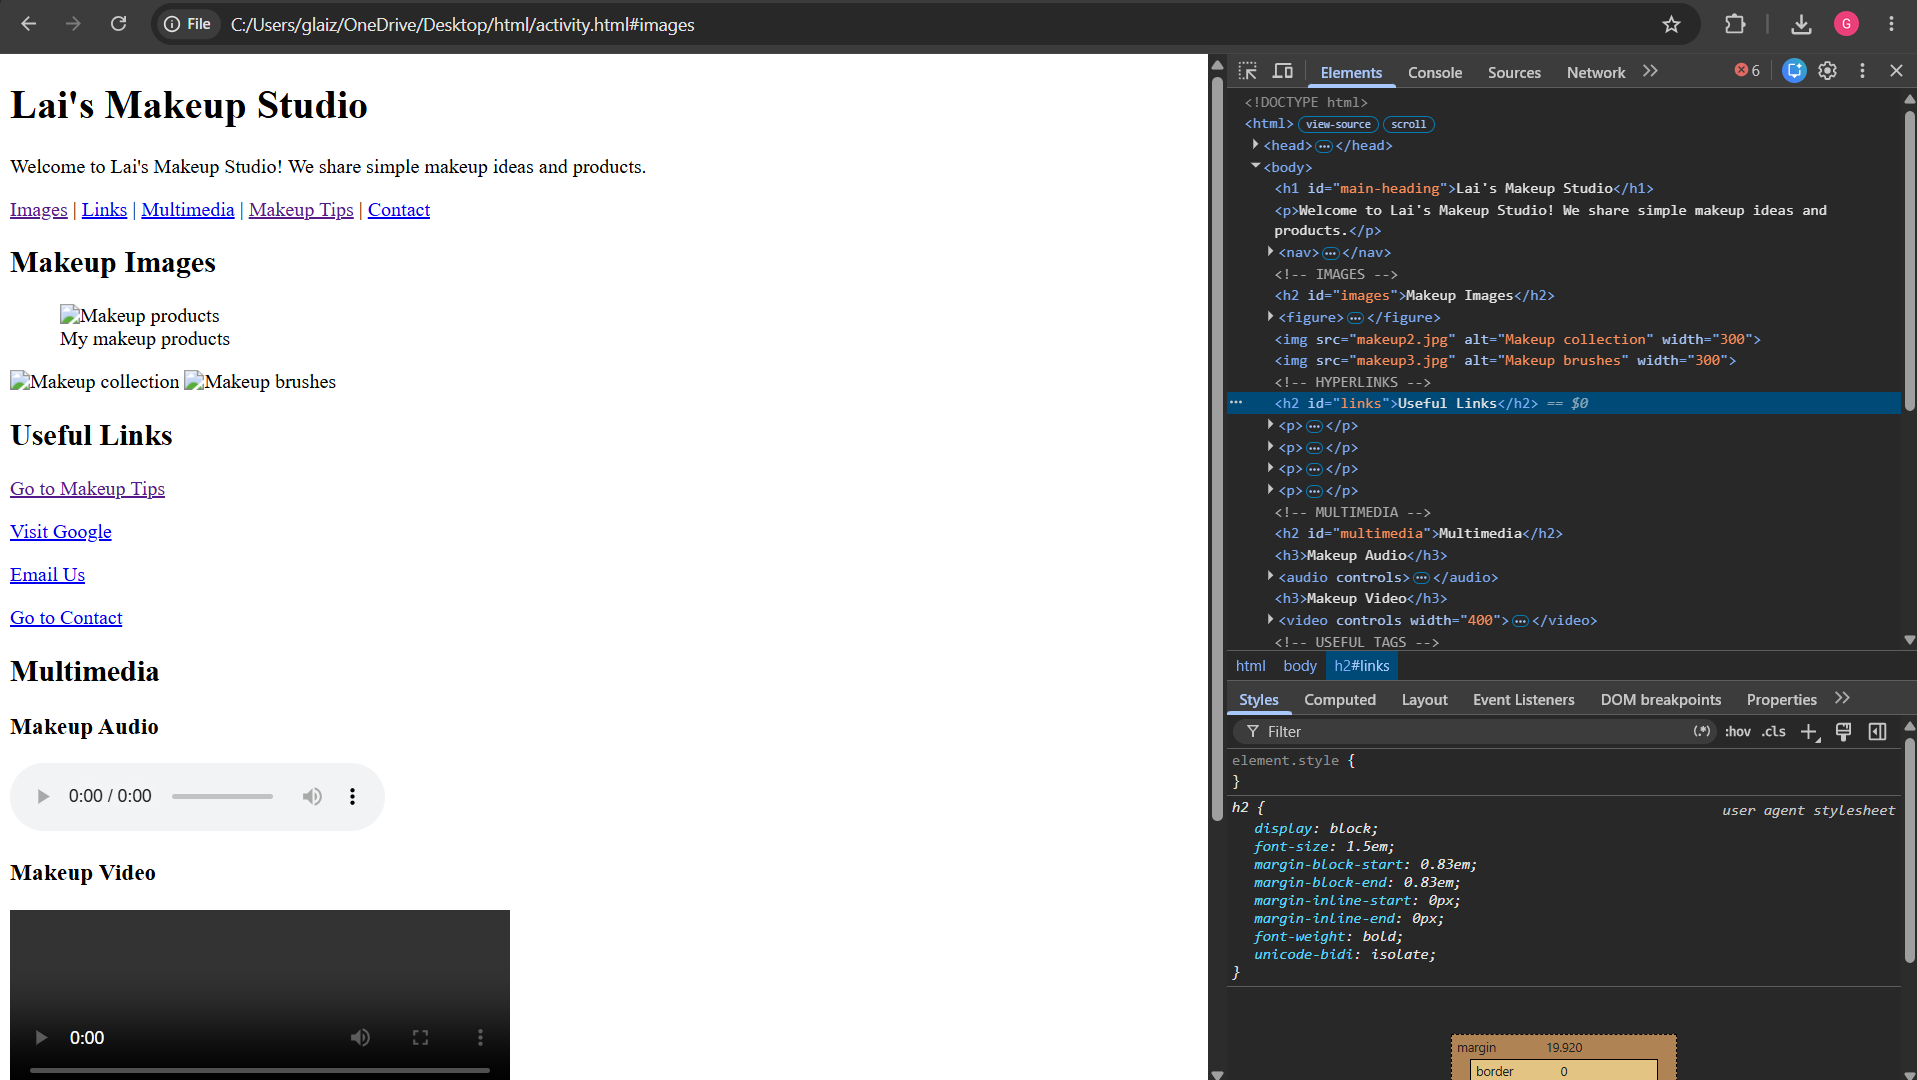
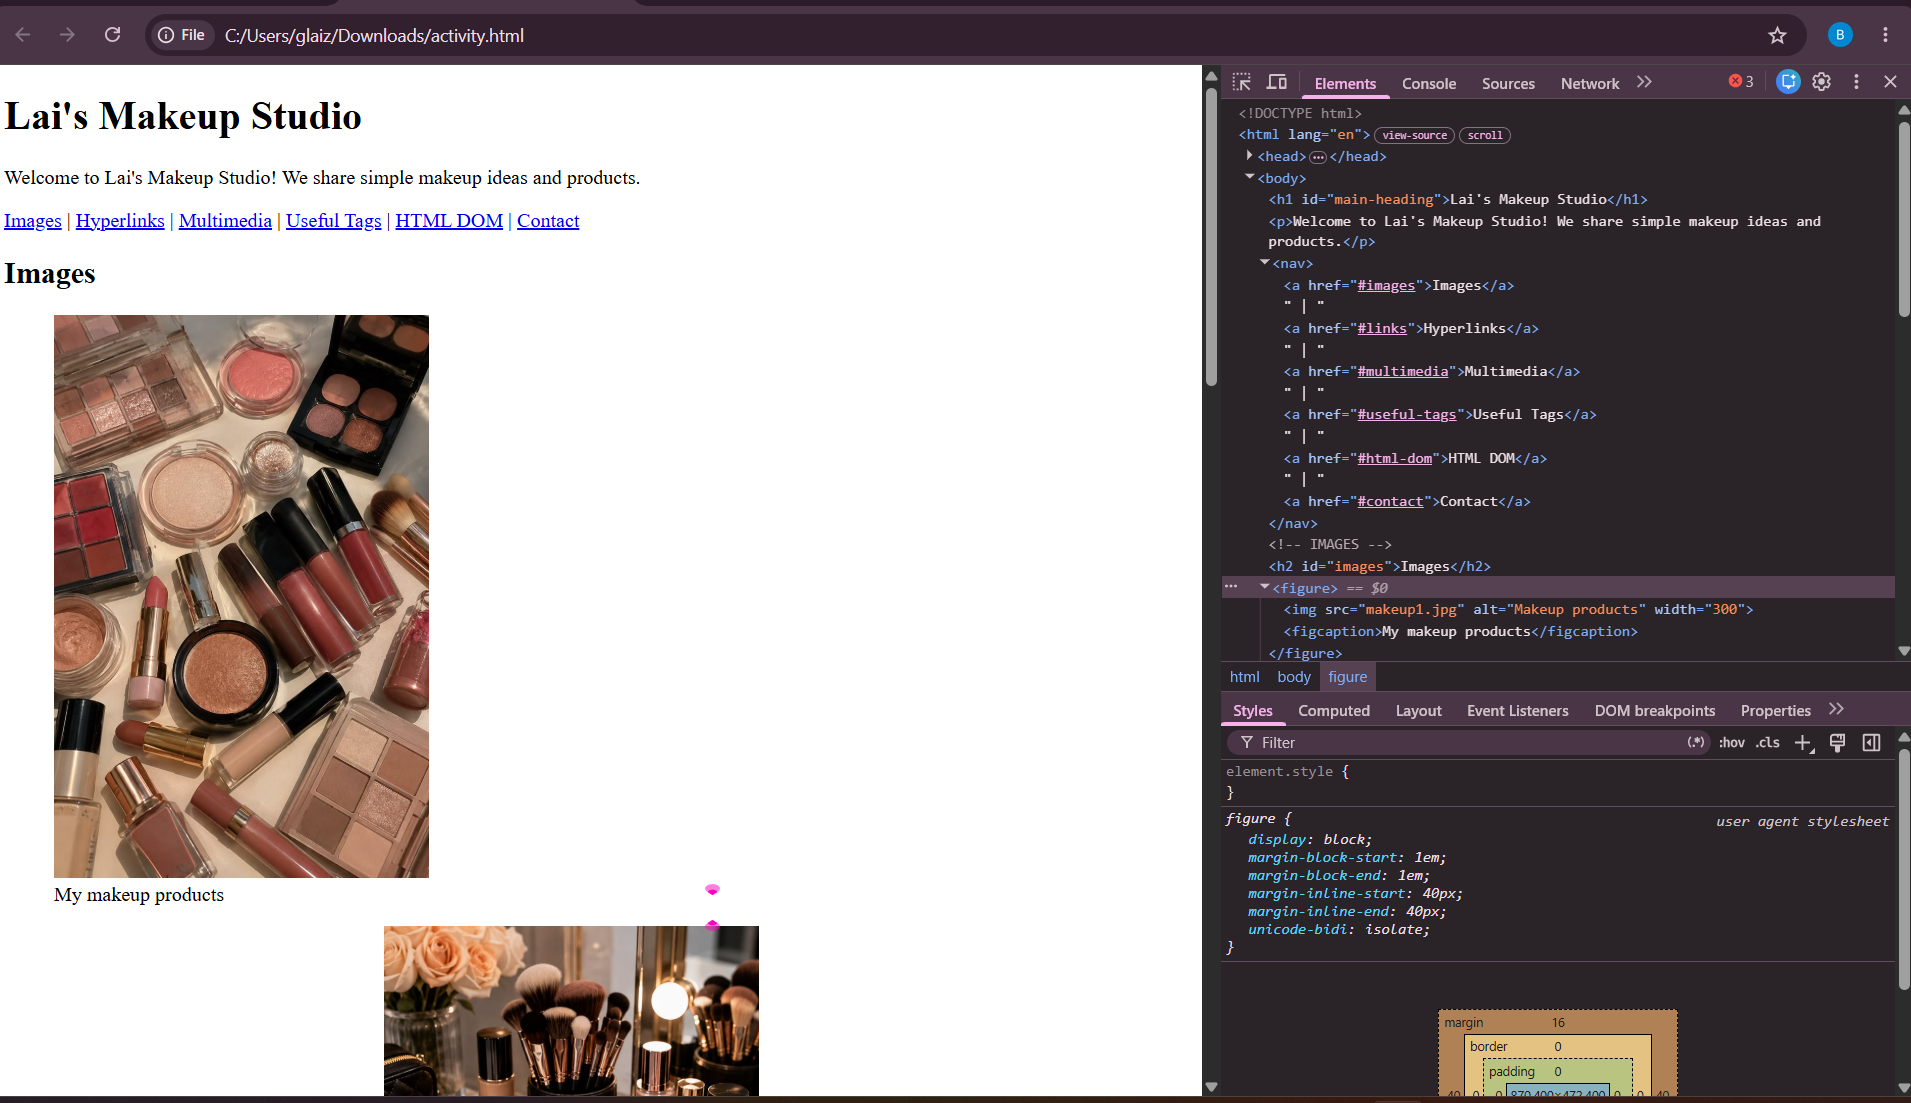
Fix headings, add DOM section, products page and DOM screenshot

diff --git a/activity.html b/activity.html
@@ -1,6 +1,7 @@
 <!DOCTYPE html>
-<html>
+<html lang="en">
 <head>
+    <meta charset="UTF-8">
     <title>Lai's Makeup Studio</title>
 </head>
 
@@ -12,15 +13,16 @@
 
     <nav>
         <a href="#images">Images</a> |
-        <a href="#links">Links</a> |
+        <a href="#links">Hyperlinks</a> |
         <a href="#multimedia">Multimedia</a> |
-        <a href="#tips">Makeup Tips</a> |
+        <a href="#useful-tags">Useful Tags</a> |
+        <a href="#html-dom">HTML DOM</a> |
         <a href="#contact">Contact</a>
     </nav>
 
 
     <!-- IMAGES -->
-    <h2 id="images">Makeup Images</h2>
+    <h2 id="images">Images</h2>
 
     <figure>
         <img src="makeup1.jpg" alt="Makeup products" width="300">
@@ -33,20 +35,24 @@
 
 
     <!-- HYPERLINKS -->
-    <h2 id="links">Useful Links</h2>
+    <h2 id="links">Hyperlinks</h2>
 
+    <!-- Internal link to another page in my project -->
     <p>
-        <a href="#tips">Go to Makeup Tips</a>
+        <a href="products.html">See Our Products</a>
     </p>
 
+    <!-- External link that opens in a new tab -->
     <p>
         <a href="https://www.google.com" target="_blank">Visit Google</a>
     </p>
 
+    <!-- Email link -->
     <p>
         <a href="mailto:laismakeup@example.com">Email Us</a>
     </p>
 
+    <!-- Same-page anchor link that jumps to the section with id="contact" -->
     <p>
         <a href="#contact">Go to Contact</a>
     </p>
@@ -71,7 +77,7 @@
 
 
     <!-- USEFUL TAGS -->
-    <h2 id="tips">Makeup Tips</h2>
+    <h2 id="useful-tags">Useful Tags</h2>
 
     <!-- I used mark to highlight an important word. -->
     <p>Always <mark>clean your makeup tools</mark> before using them.</p>
@@ -83,6 +89,14 @@
 
     <!-- I used abbr to show the meaning of an abbreviation. -->
     <p><abbr title="Makeup Artist">MUA</abbr> means Makeup Artist.</p>
+
+
+    <!-- HTML DOM -->
+    <h2 id="html-dom">HTML DOM</h2>
+
+    <p>This is a screenshot of my page's DOM tree in the browser DevTools.</p>
+
+    <img src="dom-tree.png" alt="DevTools Elements panel showing the body, nav, figure and img elements of my page" width="600">
 
 
     <!-- CONTACT -->

diff --git a/products.html b/products.html
@@ -1,0 +1,17 @@
+<!DOCTYPE html>
+<html lang="en">
+<head>
+    <meta charset="UTF-8">
+    <title>Our Products</title>
+</head>
+<body>
+    <h1>Our Products</h1>
+    <ul>
+        <li>Lipstick</li>
+        <li>Foundation</li>
+        <li>Blush</li>
+        <li>Eyeshadow</li>
+    </ul>
+    <p><a href="activity.html">Back to the main page</a></p>
+</body>
+</html>
